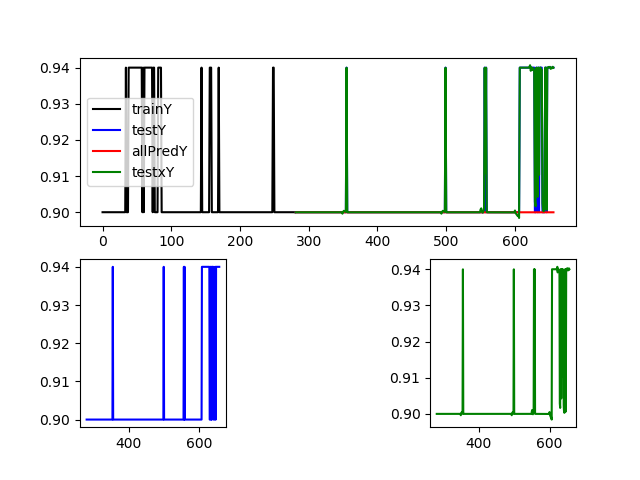
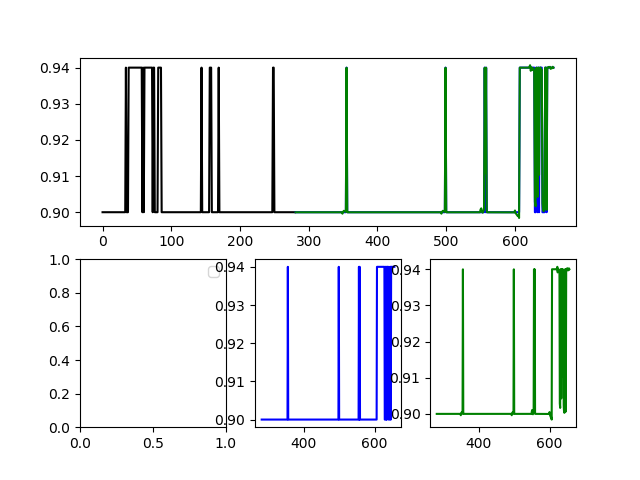
change pic

diff --git a/AIStudy/rnn/lstm.py b/AIStudy/rnn/lstm.py
@@ -105,10 +105,10 @@ def use_model():
 		plt.subplot(211)
 		plt.plot(range(0,index),scaler.inverse_transform(train_y),color='k')
 		plt.plot(range(index,_length),_test_y,color='blue')
-		plt.plot(range(index,_length),pred_y_list_1,color='red')
 		plt.plot(range(index,_length),pred_y_list_2,color='green')
-		plt.legend(['trainY','testY','allPredY','testxY'])
 		plt.subplot(234)
+		plt.legend(['trainY','testY','testxY'])
+		plt.subplot(235)
 		plt.plot(range(index,_length),_test_y,color='blue')
 		plt.subplot(236)
 		plt.plot(range(index,_length),pred_y_list_2,color='green')
